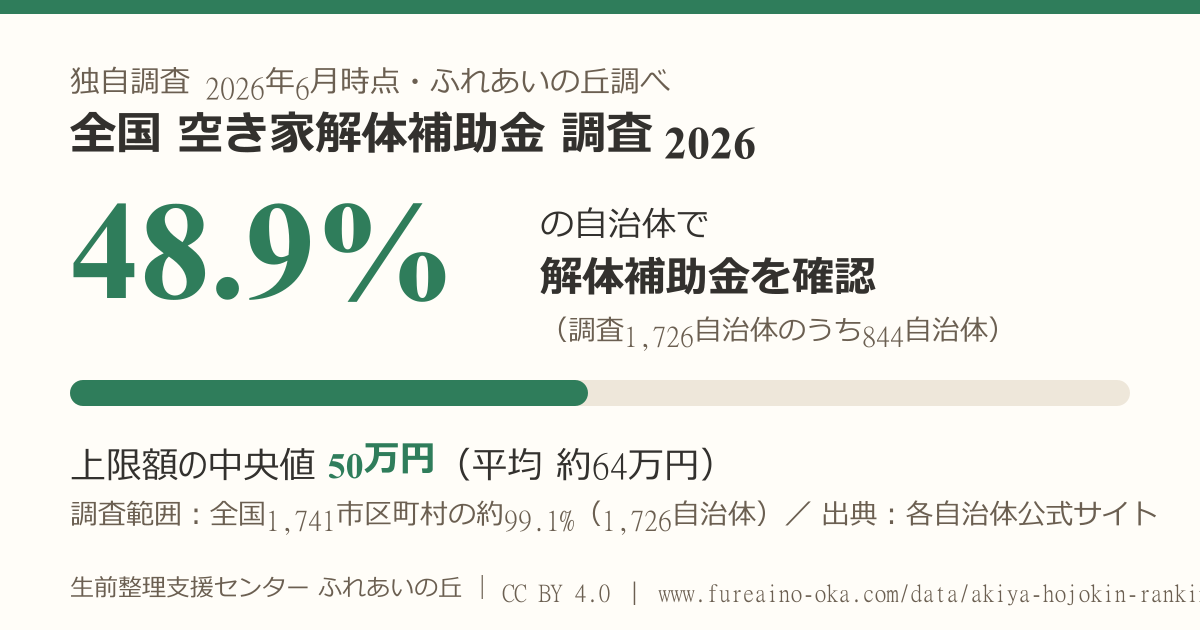
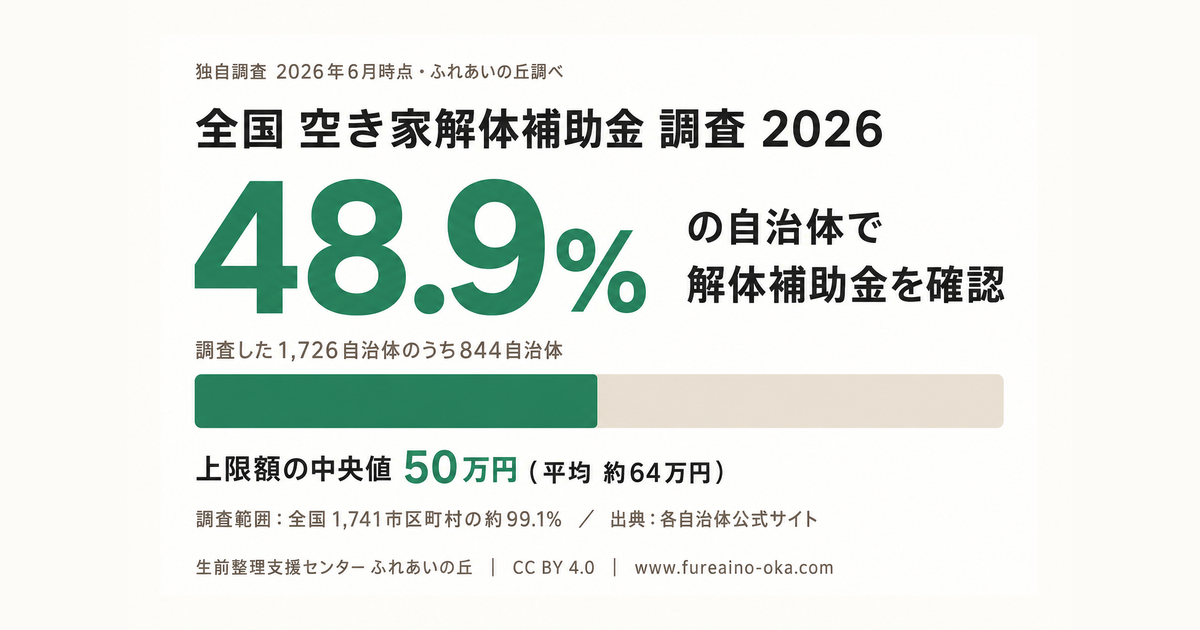
feat(ogp): 補助金データのOGPヒーロー画像をデザイン版インフォグラフィックに差し替え
- public/opendata/akiya-hojokin-infographic.png をChatGPT生成のデザイン版へ
  差し替え（1536x1024→背景色を自動サンプリングして1200x630=OGP比に整形。
  X等で上下が切れて上部ラベル/クレジットが消えるのを防止）。
  全国版＋47県のOGP画像／「画像で引用」に自動反映。
- 自動生成インフォグラフィック（データ正確版）は -auto ファイル名に分離し、
  四半期の data:opendata 実行で手動ヒーロー画像を上書きしないよう変更。
- 旧・自動生成SVG（未参照）を削除。

diff --git a/scripts/data-reports/build-subsidy-opendata.ts b/scripts/data-reports/build-subsidy-opendata.ts
@@ -176,10 +176,13 @@ async function main() {
   fs.writeFileSync(csvPath, rowsToCsv(rows), "utf8");
   fs.writeFileSync(readmePath, buildReadme(dataset.summary.totalMunicipalities), "utf8");
 
-  // 配布用インフォグラフィック（SVG＋PNG）。PNG は本機（フォントあり）でラスタライズして同梱する。
+  // 自動生成インフォグラフィック（SVG＋PNG・データ正確版）。
+  // ※ OGP/「画像で引用」の本番ヒーロー画像は手動デザイン版
+  //   public/opendata/akiya-hojokin-infographic.png（別途差し替え）を使用しているため、
+  //   この自動生成は -auto ファイル名に出力し、ヒーロー画像を上書きしない。
   const svg = buildInfographicSvg(dataset.summary);
-  const svgPath = path.join(OUT_DIR, "akiya-hojokin-infographic.svg");
-  const pngPath = path.join(OUT_DIR, "akiya-hojokin-infographic.png");
+  const svgPath = path.join(OUT_DIR, "akiya-hojokin-infographic-auto.svg");
+  const pngPath = path.join(OUT_DIR, "akiya-hojokin-infographic-auto.png");
   fs.writeFileSync(svgPath, svg, "utf8");
   await sharp(Buffer.from(svg)).png().toFile(pngPath);
 